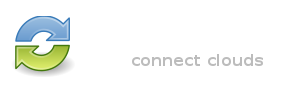
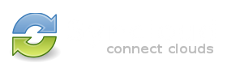
Learning git console - forgot to commit second part

diff --git a/_layouts/default.html b/_layouts/default.html
@@ -6,6 +6,8 @@ sections:
       url: /about.html
     - name: Download
       url: /download.html
+    - name: Development
+      url: /development.html
     - name: Contact Us
       url: /contactus.html
 ---
@@ -17,6 +19,7 @@ sections:
     <meta charset='utf-8'/>
     <meta http-equiv="X-UA-Compatible" content="chrome=1"/>
     <meta name="description" content="Syncloud : Share files through the clouds"/>
+    <link rel="shortcut icon" href="favicon.ico">
     <link type="text/css" href="/css/smoothness/jquery-ui-1.8.21.custom.css" rel="stylesheet" />
     <script type="text/javascript" src="/js/jquery-1.7.2.min.js"></script>
     <script type="text/javascript" src="/js/jquery-ui-1.8.21.custom.min.js"></script>
@@ -29,6 +32,7 @@ sections:
     <link rel="stylesheet" href="/css/news.css"/>
     <link rel="stylesheet" href="/css/about.css"/>
     <link rel="stylesheet" href="/css/download.css"/>
+    <link rel="stylesheet" href="/css/contuctus.css"/>
     <title>Syncloud - {{ page.title }}</title>
 </head>
 
@@ -42,11 +46,11 @@ sections:
     <div class="container_12">
 
         <div class="grid_1">&nbsp;</div>
-        <div class="grid_4">
+        <div class="grid_3">
             <img src="/images/syncloud.png"/>
         </div>
 
-        <div class="grid_6">
+        <div class="grid_7">
             <div id="navigation">
                 <ul>
                     {% for item in page.sections %}

diff --git a/css/stylesheet.css b/css/stylesheet.css
@@ -21,7 +21,8 @@ table, caption, tbody, tfoot, thead, tr, th, td,
 article, aside, canvas, details, embed,
 figure, figcaption, footer, header, hgroup,
 menu, nav, output, ruby, section, summary,
-time, mark, audio, video {
+time, mark, audio, video,
+input[type=text], textarea {
     font-size: inherit;
     font-family: inherit;
     line-height: inherit;
